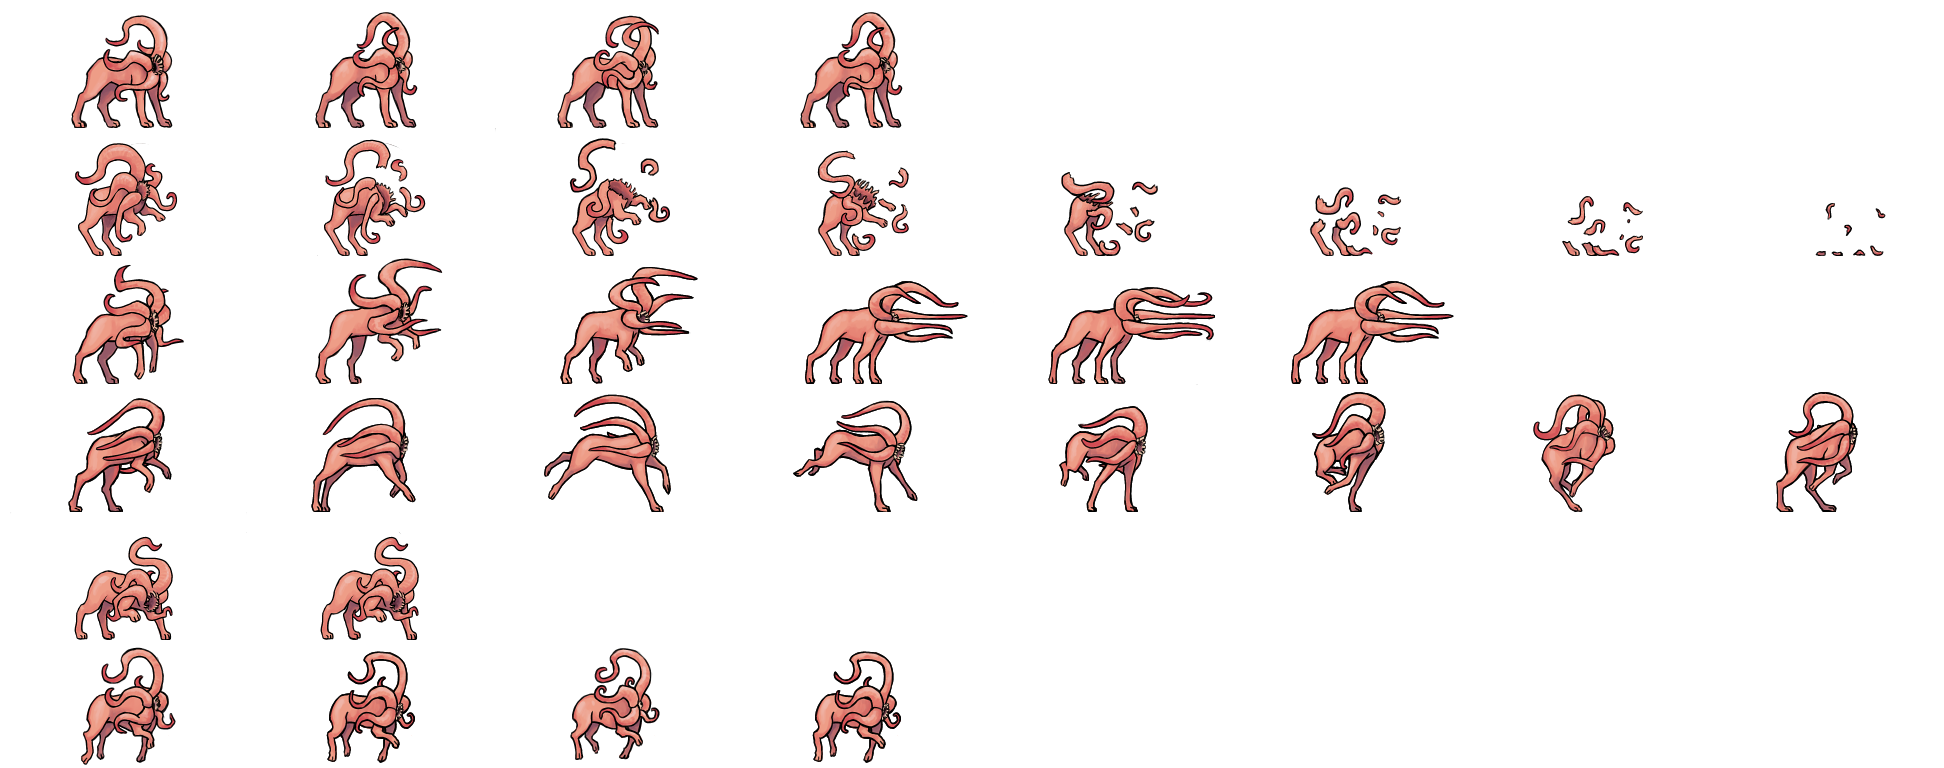
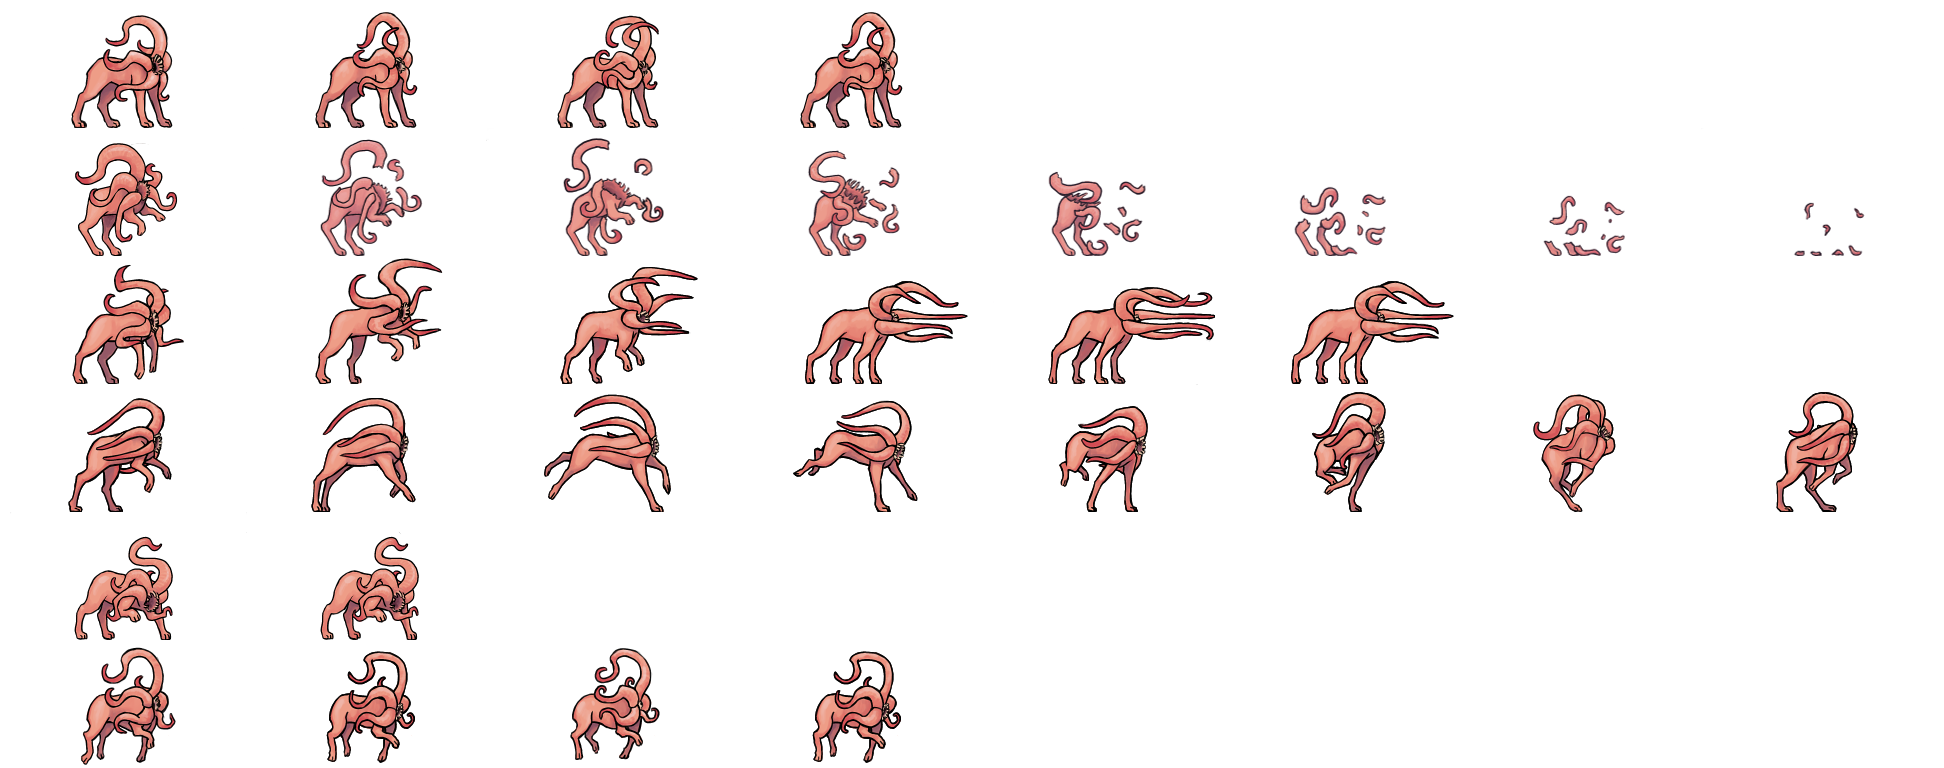
Boss death animation and block effect

diff --git a/src/gameworld.py b/src/gameworld.py
@@ -174,6 +174,7 @@ class GameWorld(object):
                 #Attack related:
                 #Create enemy attacks
                 attack_list = list()
+                effect_ID = None
                 #Attack 1:
                 if "att_1_damage" in tile_properties:
                     damage1 = int(tile_properties["att_1_damage"])
@@ -212,12 +213,14 @@ class GameWorld(object):
                     proj_anim_time_list = [50, 13]
                     proj_width = 32
                     proj_height = 32
+                    effect_ID = self.create_attack_effect('pink_boss_block_effect.png',
+                                                      250, 250, 8, 30)
                 particle_emitter1 = self.create_attack(position, damage1, stun1,
                                                       cooldown1, proj1, proj_image,
                                                       proj_anim_list, proj_anim_time_list,
                                                       proj_width, proj_height,
                                                       proj_life1, proj_speed1, [0,0],
-                                                      spread1)
+                                                      spread1, effect_ID)
                 particle_emitter1.piercing = att1_pierce
                 attack_list.append(particle_emitter1)
                 #Attack 2
@@ -518,7 +521,7 @@ class GameWorld(object):
             vel = components.Velocity(0, 0, max_x_vel, max_y_vel)
             #Create enemy's animations
             temp = pygame.image.load(os.path.join('data', 'enemy_pink_boss.png')).convert_alpha()
-            anim_list = [4, 2, 5, 8, 2, 4, 5, 5]
+            anim_list = [4, 8, 5, 8, 2, 4, 5, 5]
             anim_time_list = [240, 60, 44, 58, 10, 44, 44, 44]
             anim = components.Appearance(temp, 250, 200, anim_list, anim_time_list)
             anim.rect.center = coll.center

diff --git a/src/ai.py b/src/ai.py
@@ -195,7 +195,7 @@ class AI_1(AI):
         :type world: gameWorld.GameWorld
         """
         AI.__init__(self, world, entity_ID, event_manager)
-        self.aggresion_range = 200
+        self.aggresion_range = 500
         #Set idle function for the AI
         self.current_action = self.idle
 
@@ -442,13 +442,19 @@ class AI_Boss_2(AI):
         player_att = self.world.attacks[self.world.player]
         for player_proj in player_att[0].particles:
             if (self.point_in_radius(radius, player_proj.position)):
-                #self.current_action = self.idle
-                if self.walking_left():
-                    direction = (-1, 0)
-                else:
+                self_position = self.world.collider[self.entity_ID].center
+                players_position = self.world.collider[self.world.player].center
+                direction = [players_position[0] - self_position[0],
+                         players_position[1] - (self_position[1]+32)]
+                direction = calculate_octant(direction)
+                if direction[0] == 0 and direction[1] == 0:
+                    #Direction (0,0) is not valid
                     direction = (1, 0)
                 self.stop_movement()
-                self.attack(0, None, direction)
+                offset = 128
+                self_position = self.world.collider[self.entity_ID].center
+                att_position = (self_position[0] + offset*direction[0], self_position[1] + offset*direction[1])
+                self.attack(0, att_position, direction)
                 player_proj.life = 0
 
     def cruise(self, event):

diff --git a/src/combatsystem.py b/src/combatsystem.py
@@ -165,10 +165,27 @@ class CombatSystem():
                     player = self.world.players[entity_ID]
                     #Get the orb position of the player
                     eff_position = self.world.appearance[player.orb_ID].rect.center
-                    rot_angle = self.world.appearance[player.orb_ID].angle
+                    rot_angle = self.world.appearance[player.orb_ID].angle  
                 else:
-                    eff_position = position
+                    x = direction[0]
+                    y = direction[1]
                     rot_angle = 0
+                    if x > 0 and y < 0:
+                        rot_angle = 45
+                    elif x == 0 and y < 0:
+                        rot_angle = 90
+                    elif x < 0 and y < 0:
+                        rot_angle = 135
+                    elif x < 0 and y == 0:
+                        rot_angle = 180
+                    elif x < 0 and y > 0:
+                        rot_angle = 225
+                    elif x == 0 and y > 0:
+                        rot_angle = 270
+                    elif x > 0 and y > 0:
+                        rot_angle = 315
+                    eff_position = position
+                    #rot_angle = 0
                 #Update position and rotation of the attack effect
                 self.world.appearance[effect_ID].rect.center = eff_position
                 self.world.appearance[effect_ID].angle = rot_angle

diff --git a/src/game.py b/src/game.py
@@ -56,9 +56,9 @@ if __name__ == "__main__":
     pygame.init()
     pygame.font.init()
     pygame.display.set_caption('Chaos Projectile')
-    #pygame.mouse.set_visible(False)
-    screen = pygame.display.set_mode((800, 600), pygame.RESIZABLE)
-    #screen = pygame.display.set_mode((800, 600), pygame.NOFRAME | pygame.FULLSCREEN | pygame.HWSURFACE)
+    pygame.mouse.set_visible(False)
+    #screen = pygame.display.set_mode((800, 600), pygame.RESIZABLE)
+    screen = pygame.display.set_mode((800, 600), pygame.NOFRAME | pygame.FULLSCREEN | pygame.HWSURFACE)
 
     #Create event manager
     evManager = events.EventManager()
